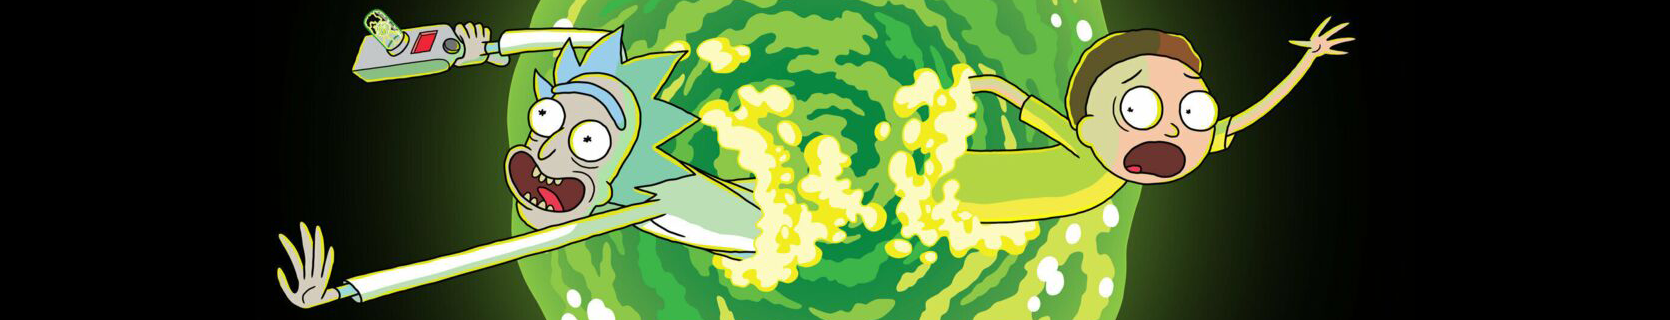
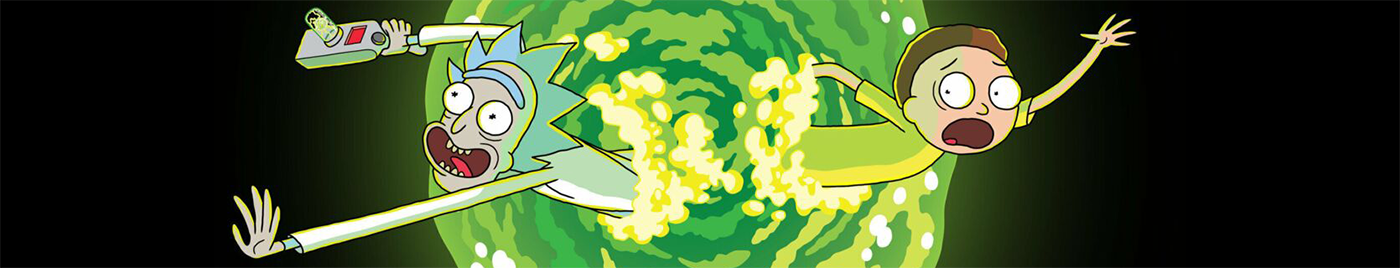
Add files via upload

diff --git a/src/App.jsx b/src/App.jsx
@@ -49,22 +49,33 @@ function App() {
             </form>
           </div>
         </div>
-      </div>
-      <h1>Rick and Morty</h1>
-      {errorLocation ? (
-        <ErrorLocation />
-      ) : (
-        <div>
-          <LocationInfo location={location} />
-          <div className='app__residentcard--container'>
-            {
-              location?.residents.map(url => (
-                <ResidentInfo key={url} url={url} />
-              ))
-            }
-          </div>
+        <div className='app__banner--location'>
+          {errorLocation ? (
+            <ErrorLocation />
+          ) : (
+            <div>
+              <LocationInfo location={location} />
+            </div>
+          )}
         </div>
-      )}
+
+        <div>
+
+
+
+        </div>
+
+      </div>
+
+      <div className='app__residentcard--container'>
+        {
+          location?.residents.map(url => (
+            <ResidentInfo key={url} url={url} />
+          ))
+        }
+      </div>
+
+
     </div>
   )
 }

diff --git a/src/App.css b/src/App.css
@@ -1,21 +1,23 @@
+.App {
+    padding: 0 16px 0 16px;
+}
+
 .app__banner {
-    width: 100%; height: 352px;
-    max-width: 1670px;
-    padding: 16px;
-    margin: auto;
+    width: 100%; height: 268px;
+    max-width: 1400px;
+    position: fixed;
+    left: 50%;
+    top: 0%;
+transform: translate(-50%, 0%);
 }
 
 .app__banner--background {
-
-    /*width: calc(288px + (1638 - 288) * ((100vw - 320px) / (1670 - 320)));*/
-    width: 100%;
-    height: 100%;
+    width: 100vw;
+    height: 19.145vw;
     background-image: url('/rambanner.png');
     background-position:center;
     background-repeat: no-repeat;
     background-size: cover;
-    
-    border-radius: 15px 15px 0 0;
     position: relative;
 }
 
@@ -34,11 +36,16 @@
     width: 400px;
 }
 
+.app__banner--location {
+}
+
+
+
 
 .app__residentcard--container {
-    max-width: 1670px;
-    padding: 16px;
+    max-width: 1400px;
     margin: auto;
+    margin-top: 400px;
     display: flex;
     justify-content: center;
     flex-wrap: wrap;

diff --git a/src/components/LocationInfo.jsx b/src/components/LocationInfo.jsx
@@ -1,17 +1,16 @@
 import React from 'react'
+import './LocationInfo.css';
 
 const LocationInfo = ({ location }) => {
-    console.log( location );
+  console.log(location);
   return (
     <div>
-        <article>
-            <h2>{ location?.name }</h2>
-            <ul>
-                <li><span>Type:</span>{ location?.type }</li>
-                <li><span>Dimension:</span>{ location?.dimension }</li>
-                <li><span>Population:</span>{ location?.residents.length }</li>
-            </ul>
-        </article>
+    <div className='location__info'>
+        <h2>{location?.name}</h2>
+        <h2><span>Type:</span>{location?.type}</h2>
+        <h2><span>Dimension:</span>{location?.dimension}</h2>
+        <h2><span>Population:</span>{location?.residents.length}</h2>
+    </div>
     </div>
   )
 }

diff --git a/src/components/LocationInfo.css b/src/components/LocationInfo.css
@@ -1,0 +1,8 @@
+.location__info {
+    background-color:aqua;
+    width: 100%; height: auto;
+    padding: 16px;
+    display: flex;
+    justify-content: space-between;
+    
+}
